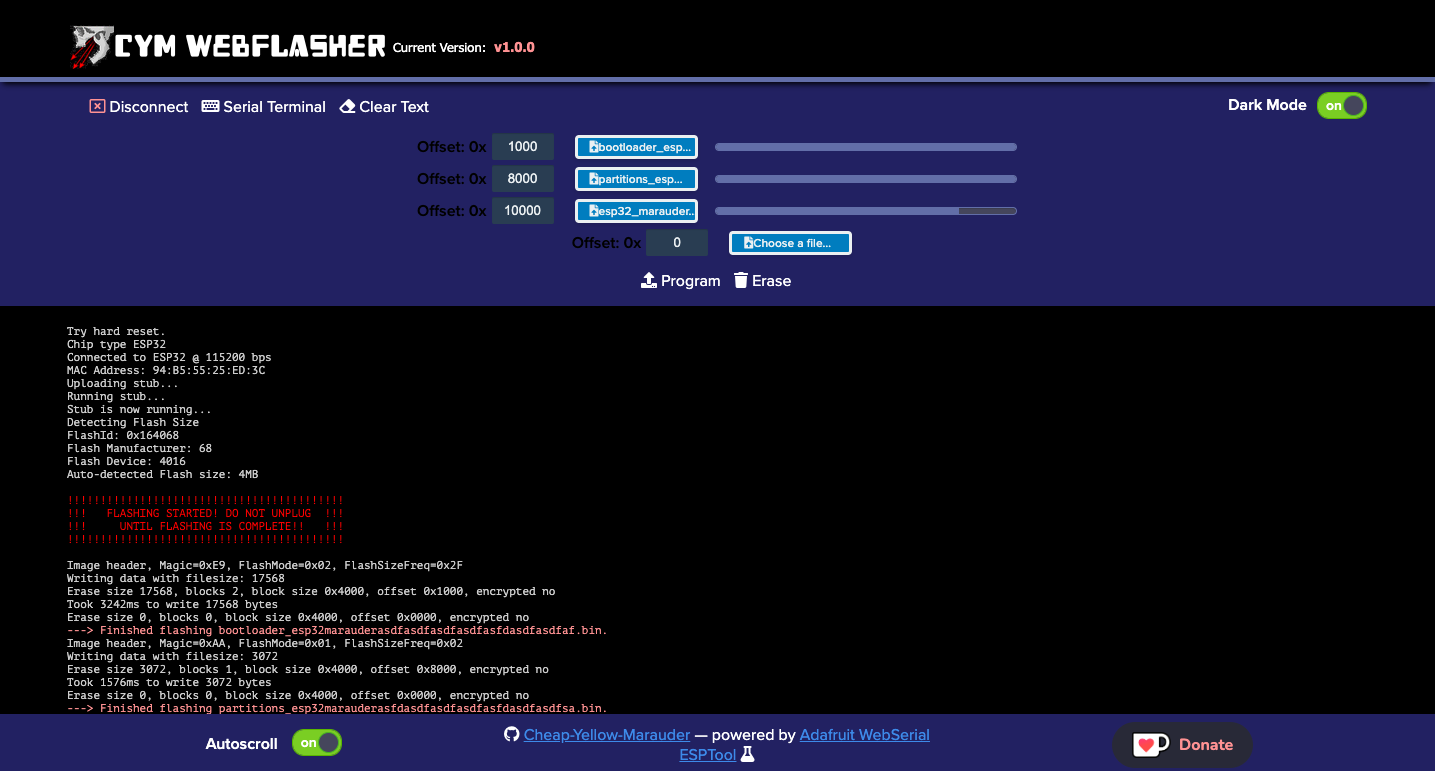
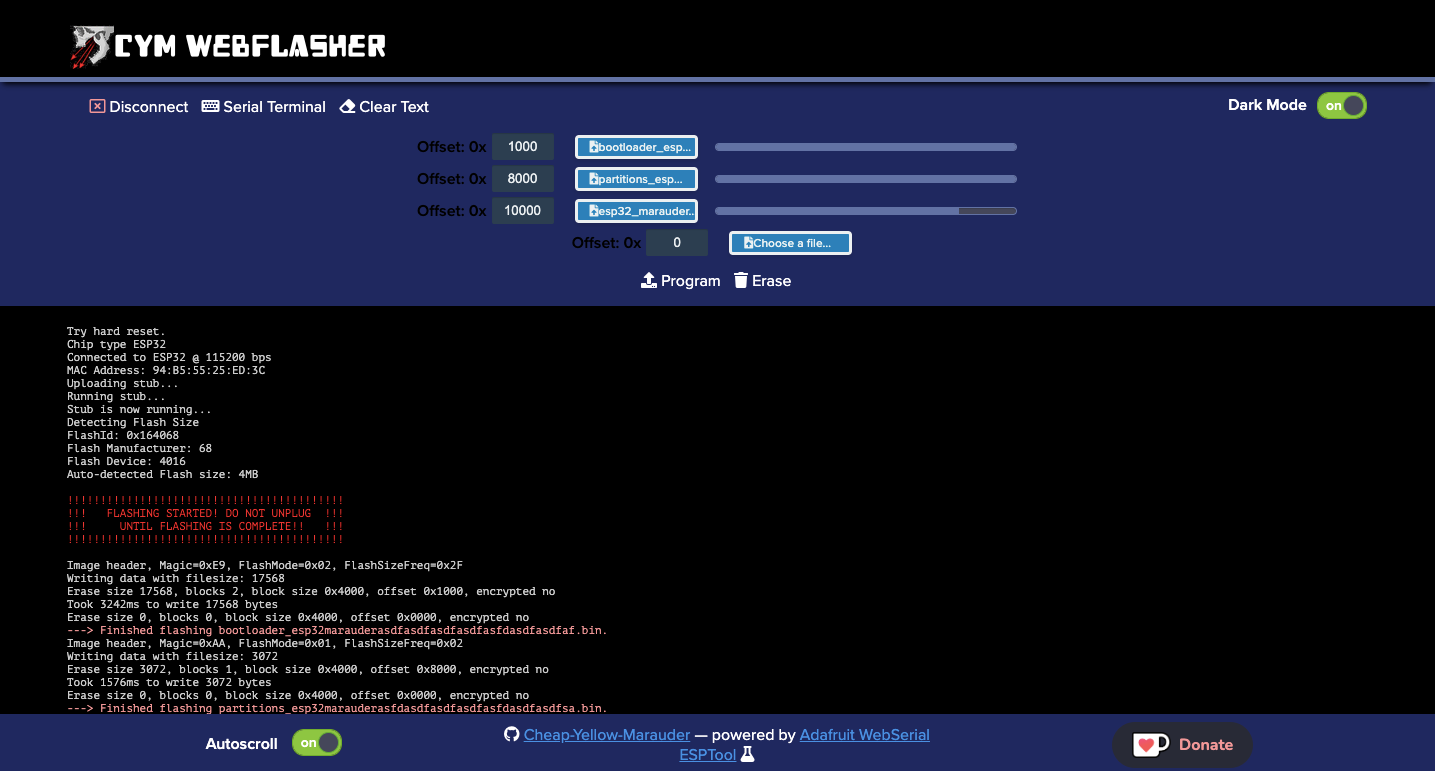
mission critical

diff --git a/manual.html b/manual.html
@@ -70,13 +70,6 @@
       <div class="left">
         <img src="assets/logo0.png" class="Adafruit-Logo">
       </div>
-      <div class="right">
-        <p class="top-text">
-        <font face="Tahoma, Verdana, Arial" color="white" size="2">Current Version: &nbsp;</font></p> <p class="top-text">
-        <font face="Tahoma, Verdana, Arial" color="#fc9999" size="2"><b>v1.0.0</b></font></p>
-
-      </div>
-
       </header>
      
 <main class="main">
